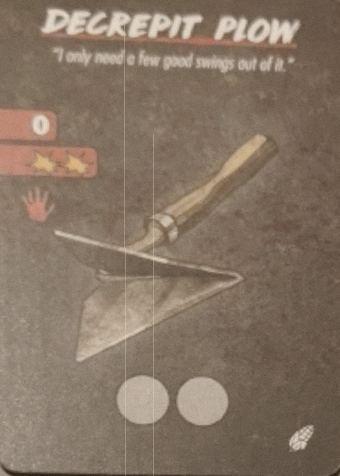
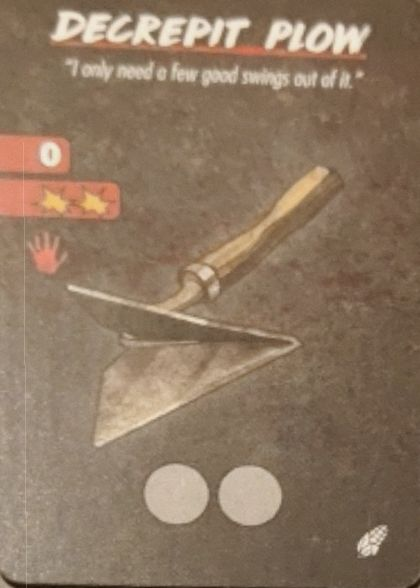
Guide: photo-style frame on cards, less washed-out filter, tap to zoom

diff --git a/en/guia-a-rotten-harvest.html b/en/guia-a-rotten-harvest.html
@@ -153,11 +153,11 @@
 <p class="gu-ley">🩸 = Bloodlust · 🌾 = Field Space · 🎭 = the card's mask icon</p></header>
 <style>
 .gu-grid{display:grid;grid-template-columns:repeat(auto-fill,minmax(150px,1fr));gap:14px;margin:12px 0 6px}
-.gu-grid figure{margin:0}.gu-grid img{width:100%;display:block;border:1px solid #3a2a2c;box-shadow:0 6px 16px rgba(0,0,0,.5)}
+.gu-grid figure{margin:0}.gu-grid img,.gu-it img{display:block;background:#ece5d5;padding:5px;border-radius:7px;box-sizing:border-box;cursor:zoom-in;box-shadow:0 10px 22px rgba(0,0,0,.6),0 0 0 1px rgba(0,0,0,.4);transform:rotate(-1.6deg);transition:transform .2s}.gu-grid img{width:100%}.gu-grid figure:nth-child(even) img,.gu-it:nth-child(even) img{transform:rotate(1.8deg)}.gu-grid img:hover,.gu-it img:hover{transform:rotate(0) scale(1.04)}.gu-zoom{position:fixed;inset:0;z-index:99;background:rgba(0,0,0,.85);display:flex;align-items:center;justify-content:center;cursor:zoom-out}.gu-zoom img{max-width:92vw;max-height:88vh;background:#ece5d5;padding:8px;border-radius:10px;box-shadow:0 20px 50px #000}
 .gu-grid figcaption{font-family:var(--f-mono);font-size:11px;letter-spacing:.06em;text-transform:uppercase;margin-top:6px;color:var(--muted)}
 .gu-obj{display:grid;grid-template-columns:repeat(auto-fill,minmax(300px,1fr));gap:12px;margin:12px 0}
 .gu-it{display:flex;gap:12px;align-items:flex-start;background:var(--surface);border:1px solid var(--line);border-radius:3px;padding:10px}
-.gu-it img{width:92px;flex:none;border:1px solid #3a2a2c}.gu-it b.n{display:block;font-size:15px;margin-bottom:4px}
+.gu-it img{width:104px;flex:none;margin:2px 4px 4px 2px}.gu-it b.n{display:block;font-size:15px;margin-bottom:4px}
 .gu-it p{margin:0;font-size:14px}.gu-ev{margin:10px 0}.gu-ev dt{font-weight:700;margin-top:10px}.gu-ev dd{margin:2px 0 0}
 .gu-err{border-left:3px solid var(--blood);padding:4px 0 4px 14px;margin:10px 0}
 .gu-ley{font-family:var(--f-mono);font-size:12px;color:var(--muted)}
@@ -173,7 +173,8 @@
 <h2>The 5 setups</h2><p class="sub">K = Killer start · yellow figure = Final Girl · numbers = Victims in each space.</p><div class="gu-grid"><figure><img src="../img/guias/a-rotten-harvest/reap-what-you-sow.jpg" alt="Reap What You Sow" loading="lazy"><figcaption>Reap What You Sow</figcaption></figure><figure><img src="../img/guias/a-rotten-harvest/final-crop.jpg" alt="Final Crop" loading="lazy"><figcaption>Final Crop</figcaption></figure><figure><img src="../img/guias/a-rotten-harvest/dusk-sacrifice.jpg" alt="Dusk Sacrifice" loading="lazy"><figcaption>Dusk Sacrifice</figcaption></figure><figure><img src="../img/guias/a-rotten-harvest/harvest-season.jpg" alt="Harvest Season" loading="lazy"><figcaption>Harvest Season</figcaption></figure><figure><img src="../img/guias/a-rotten-harvest/demands-of-the-earth.jpg" alt="Demands of the Earth" loading="lazy"><figcaption>Demands of the Earth</figcaption></figure></div>
 <h2>Items</h2><div class="gu-obj"><div class="gu-it"><img src="../img/guias/a-rotten-harvest/moonshine-jug.jpg" alt="Moonshine Jug" loading="lazy"><div><b class="n">Moonshine Jug</b><p>Discard to recover <b>4 Health</b>.</p></div></div><div class="gu-it"><img src="../img/guias/a-rotten-harvest/cowboy-boots.jpg" alt="Cowboy Boots" loading="lazy"><div><b class="n">Cowboy Boots</b><p>2 uses. Move up to <b>2 spaces</b>.</p></div></div><div class="gu-it"><img src="../img/guias/a-rotten-harvest/pilgrims-hat.jpg" alt="Pilgrim's Hat" loading="lazy"><div><b class="n">Pilgrim's Hat</b><p>If you start your movement in a 🌾, you may move <b>1 extra space</b>.</p></div></div><div class="gu-it"><img src="../img/guias/a-rotten-harvest/farmers-almanac.jpg" alt="Farmer's Almanac" loading="lazy"><div><b class="n">Farmer's Almanac</b><p>2 uses. After drawing a <b>Terror</b> card but before resolving it, you may put it on the bottom and draw the next one.</p></div></div><div class="gu-it"><img src="../img/guias/a-rotten-harvest/mechanics-toolbox.jpg" alt="Mechanic's Toolbox" loading="lazy"><div><b class="n">Mechanic's Toolbox</b><p>Discard to take back <b>1 discarded Item</b>, with all its uses.</p></div></div><div class="gu-it"><img src="../img/guias/a-rotten-harvest/childrens-toys.jpg" alt="Children's Toys" loading="lazy"><div><b class="n">Children's Toys</b><p>2 uses. Swap a <b>Child</b> in your space for a normal Victim.</p></div></div><div class="gu-it"><img src="../img/guias/a-rotten-harvest/locus-of-insanity.jpg" alt="Locus of Insanity" loading="lazy"><div><b class="n">Locus of Insanity</b><p>3 uses. Once per turn, with 🎭, you may place yourself in <b>any 🌾</b>.</p></div></div><div class="gu-it"><img src="../img/guias/a-rotten-harvest/scythe.jpg" alt="Scythe" loading="lazy"><div><b class="n">Scythe</b><p>Weapon · range 0-1 · 1 damage · 2 hands. When attacking Enemies in a 🌾, you may <b>split the damage</b> between them. Then that space becomes <b>Harvested</b> and is no longer a 🌾.</p></div></div><div class="gu-it"><img src="../img/guias/a-rotten-harvest/pilgrims-musket.jpg" alt="Pilgrim's Musket" loading="lazy"><div><b class="n">Pilgrim's Musket</b><p>Weapon · range 1 · 2 damage · 2 hands · 2 uses. <b>Can't</b> be used against Enemies in a 🌾.</p></div></div><div class="gu-it"><img src="../img/guias/a-rotten-harvest/rusty-pitchfork.jpg" alt="Rusty Pitchfork" loading="lazy"><div><b class="n">Rusty Pitchfork</b><p>Weapon · range 0 · 2 damage · 2 hands. If your final Horror Roll has <b>no successes</b>, discard it.</p></div></div><div class="gu-it"><img src="../img/guias/a-rotten-harvest/decrepit-plow.jpg" alt="Decrepit Plow" loading="lazy"><div><b class="n">Decrepit Plow</b><p>Weapon · range 0 · 2 damage · 1 hand · 2 uses.</p></div></div><div class="gu-it"><img src="../img/guias/a-rotten-harvest/sickle.jpg" alt="Sickle" loading="lazy"><div><b class="n">Sickle</b><p>Weapon · range 0 · 1 damage · 1 hand. No use limit.</p></div></div></div><p class="sub">Still to photograph: Bag of Feed, Combine Keys, Corn Cob Pipe and Cornhusk Effigy.</p>
 <h2>Shady Acres events</h2><dl class="gu-ev"><dt>Umbral Evocation</dt><dd>Put the <b>Harvest Shadow</b> token in the Killer's space. Each time you or a Victim enters it: 🩸.</dd><dt>Acres of Hatred</dt><dd>For each 🌾 with at least one Victim: 🩸 (max 2). Discard.</dd><dt>“The Fields Are Moving…”</dt><dd>Put a Field token on <b>Hayfield</b> and <b>Cow Pasture</b>: they become 🌾.</dd><dt>Festering Rot</dt><dd>Whenever a Victim is killed in a 🌾: 🎭.</dd><dt>It Hungers For Us</dt><dd>All Victims panic. For each Victim in the Killer's space or adjacent: 🎭 (max 3). Discard.</dd><dt>Harvest Cultist</dt><dd>The closest Victim to you becomes the Cultist. Each Upkeep it moves 1 space toward you; if it's with you, you both move 1 space toward the Killer. Saving it has a reward.</dd><dt>Ralph the Mechanic</dt><dd>Ralph starts in <b>Ralph's Garage</b>. While he's with you, limited-use Items you take get an extra use.</dd><dt>Sally McCoy</dt><dd>Sally starts in the <b>McCoy Farmhouse</b>. When saved, search the Item deck for the <b>Combine Keys</b>.</dd></dl>
-<p class="sub">Our own wording, based on the rulebook and the cards. Spot a mistake? Let us know.</p><footer><p>Data from the <a href="https://docs.google.com/spreadsheets/d/1xSl_BhqfVdHnYIYtuiWIIzr1BjD4ToLAYvDCWebNKGY/edit" target="_blank" rel="noopener">public tracking sheet</a> kept by the Final Girl community (<a href="https://docs.google.com/forms/d/e/1FAIpQLSf8Y8_bLqYdGlhHaf1VIod8FQfCH3r9qch6LXo0oyBeCJENiw/viewform" target="_blank" rel="noopener">log your games</a>). Back to <a href="fichas.html">all killers and boxes</a>.</p></footer></div>
+<p class="sub">Our own wording, based on the rulebook and the cards. Spot a mistake? Let us know.</p>
+<script>document.addEventListener("click",function(e){var z=document.querySelector(".gu-zoom");if(z){z.remove();return}var i=e.target.closest(".gu-grid img,.gu-it img");if(!i)return;var d=document.createElement("div");d.className="gu-zoom";d.innerHTML='<img src="'+i.src+'" alt="">';document.body.appendChild(d)})</script><footer><p>Data from the <a href="https://docs.google.com/spreadsheets/d/1xSl_BhqfVdHnYIYtuiWIIzr1BjD4ToLAYvDCWebNKGY/edit" target="_blank" rel="noopener">public tracking sheet</a> kept by the Final Girl community (<a href="https://docs.google.com/forms/d/e/1FAIpQLSf8Y8_bLqYdGlhHaf1VIod8FQfCH3r9qch6LXo0oyBeCJENiw/viewform" target="_blank" rel="noopener">log your games</a>). Back to <a href="fichas.html">all killers and boxes</a>.</p></footer></div>
 <style>.fg-tuya{font-family:var(--f-mono);font-size:10px;letter-spacing:.08em;text-transform:uppercase;
 background:var(--blood);color:#fff;padding:2px 6px;border-radius:2px;margin-left:8px;vertical-align:3px;white-space:nowrap}
 h1 .fg-tuya{font-size:12px;vertical-align:middle}a.fg-mia{color:var(--blood)}</style>

diff --git a/guia-a-rotten-harvest.html b/guia-a-rotten-harvest.html
@@ -153,11 +153,11 @@
 <p class="gu-ley">🩸 = Bloodlust · 🌾 = Field Space · 🎭 = el icono de la máscara de la carta</p></header>
 <style>
 .gu-grid{display:grid;grid-template-columns:repeat(auto-fill,minmax(150px,1fr));gap:14px;margin:12px 0 6px}
-.gu-grid figure{margin:0}.gu-grid img{width:100%;display:block;border:1px solid #3a2a2c;box-shadow:0 6px 16px rgba(0,0,0,.5)}
+.gu-grid figure{margin:0}.gu-grid img,.gu-it img{display:block;background:#ece5d5;padding:5px;border-radius:7px;box-sizing:border-box;cursor:zoom-in;box-shadow:0 10px 22px rgba(0,0,0,.6),0 0 0 1px rgba(0,0,0,.4);transform:rotate(-1.6deg);transition:transform .2s}.gu-grid img{width:100%}.gu-grid figure:nth-child(even) img,.gu-it:nth-child(even) img{transform:rotate(1.8deg)}.gu-grid img:hover,.gu-it img:hover{transform:rotate(0) scale(1.04)}.gu-zoom{position:fixed;inset:0;z-index:99;background:rgba(0,0,0,.85);display:flex;align-items:center;justify-content:center;cursor:zoom-out}.gu-zoom img{max-width:92vw;max-height:88vh;background:#ece5d5;padding:8px;border-radius:10px;box-shadow:0 20px 50px #000}
 .gu-grid figcaption{font-family:var(--f-mono);font-size:11px;letter-spacing:.06em;text-transform:uppercase;margin-top:6px;color:var(--muted)}
 .gu-obj{display:grid;grid-template-columns:repeat(auto-fill,minmax(300px,1fr));gap:12px;margin:12px 0}
 .gu-it{display:flex;gap:12px;align-items:flex-start;background:var(--surface);border:1px solid var(--line);border-radius:3px;padding:10px}
-.gu-it img{width:92px;flex:none;border:1px solid #3a2a2c}.gu-it b.n{display:block;font-size:15px;margin-bottom:4px}
+.gu-it img{width:104px;flex:none;margin:2px 4px 4px 2px}.gu-it b.n{display:block;font-size:15px;margin-bottom:4px}
 .gu-it p{margin:0;font-size:14px}.gu-ev{margin:10px 0}.gu-ev dt{font-weight:700;margin-top:10px}.gu-ev dd{margin:2px 0 0}
 .gu-err{border-left:3px solid var(--blood);padding:4px 0 4px 14px;margin:10px 0}
 .gu-ley{font-family:var(--f-mono);font-size:12px;color:var(--muted)}
@@ -173,7 +173,8 @@
 <h2>Los 5 inicios</h2><p class="sub">K = dónde empieza el killer · figura amarilla = la Final Girl · números = víctimas en cada espacio.</p><div class="gu-grid"><figure><img src="img/guias/a-rotten-harvest/reap-what-you-sow.jpg" alt="Reap What You Sow" loading="lazy"><figcaption>Reap What You Sow</figcaption></figure><figure><img src="img/guias/a-rotten-harvest/final-crop.jpg" alt="Final Crop" loading="lazy"><figcaption>Final Crop</figcaption></figure><figure><img src="img/guias/a-rotten-harvest/dusk-sacrifice.jpg" alt="Dusk Sacrifice" loading="lazy"><figcaption>Dusk Sacrifice</figcaption></figure><figure><img src="img/guias/a-rotten-harvest/harvest-season.jpg" alt="Harvest Season" loading="lazy"><figcaption>Harvest Season</figcaption></figure><figure><img src="img/guias/a-rotten-harvest/demands-of-the-earth.jpg" alt="Demands of the Earth" loading="lazy"><figcaption>Demands of the Earth</figcaption></figure></div>
 <h2>Objetos</h2><div class="gu-obj"><div class="gu-it"><img src="img/guias/a-rotten-harvest/moonshine-jug.jpg" alt="Moonshine Jug" loading="lazy"><div><b class="n">Moonshine Jug</b><p>Descártalo para recuperar <b>4 de vida</b>.</p></div></div><div class="gu-it"><img src="img/guias/a-rotten-harvest/cowboy-boots.jpg" alt="Cowboy Boots" loading="lazy"><div><b class="n">Cowboy Boots</b><p>2 usos. Muévete hasta <b>2 espacios</b>.</p></div></div><div class="gu-it"><img src="img/guias/a-rotten-harvest/pilgrims-hat.jpg" alt="Pilgrim's Hat" loading="lazy"><div><b class="n">Pilgrim's Hat</b><p>Si empiezas el movimiento en un 🌾, puedes moverte <b>1 espacio más</b>.</p></div></div><div class="gu-it"><img src="img/guias/a-rotten-harvest/farmers-almanac.jpg" alt="Farmer's Almanac" loading="lazy"><div><b class="n">Farmer's Almanac</b><p>2 usos. Tras robar una carta de <b>Terror</b> y antes de resolverla, puedes ponerla al fondo y robar la siguiente.</p></div></div><div class="gu-it"><img src="img/guias/a-rotten-harvest/mechanics-toolbox.jpg" alt="Mechanic's Toolbox" loading="lazy"><div><b class="n">Mechanic's Toolbox</b><p>Descártala para recuperar <b>1 objeto descartado</b>, con todos sus usos.</p></div></div><div class="gu-it"><img src="img/guias/a-rotten-harvest/childrens-toys.jpg" alt="Children's Toys" loading="lazy"><div><b class="n">Children's Toys</b><p>2 usos. Cambia un <b>Child</b> de tu espacio por una víctima normal.</p></div></div><div class="gu-it"><img src="img/guias/a-rotten-harvest/locus-of-insanity.jpg" alt="Locus of Insanity" loading="lazy"><div><b class="n">Locus of Insanity</b><p>3 usos. Una vez por turno, con 🎭, puedes ponerte en <b>cualquier 🌾</b>.</p></div></div><div class="gu-it"><img src="img/guias/a-rotten-harvest/scythe.jpg" alt="Scythe" loading="lazy"><div><b class="n">Scythe</b><p>Arma · alcance 0-1 · 1 daño · 2 manos. Al atacar Enemies en un 🌾, puedes <b>repartir el daño</b> entre ellos. Luego ese espacio queda <b>Harvested</b> y deja de ser 🌾.</p></div></div><div class="gu-it"><img src="img/guias/a-rotten-harvest/pilgrims-musket.jpg" alt="Pilgrim's Musket" loading="lazy"><div><b class="n">Pilgrim's Musket</b><p>Arma · alcance 1 · 2 daños · 2 manos · 2 usos. <b>No sirve</b> contra Enemies en un 🌾.</p></div></div><div class="gu-it"><img src="img/guias/a-rotten-harvest/rusty-pitchfork.jpg" alt="Rusty Pitchfork" loading="lazy"><div><b class="n">Rusty Pitchfork</b><p>Arma · alcance 0 · 2 daños · 2 manos. Si tu tirada final de Horror no saca <b>ningún éxito</b>, se descarta.</p></div></div><div class="gu-it"><img src="img/guias/a-rotten-harvest/decrepit-plow.jpg" alt="Decrepit Plow" loading="lazy"><div><b class="n">Decrepit Plow</b><p>Arma · alcance 0 · 2 daños · 1 mano · 2 usos.</p></div></div><div class="gu-it"><img src="img/guias/a-rotten-harvest/sickle.jpg" alt="Sickle" loading="lazy"><div><b class="n">Sickle</b><p>Arma · alcance 0 · 1 daño · 1 mano. Sin límite de usos.</p></div></div></div><p class="sub">Faltan por fotografiar: Bag of Feed, Combine Keys, Corn Cob Pipe y Cornhusk Effigy.</p>
 <h2>Eventos de Shady Acres</h2><dl class="gu-ev"><dt>Umbral Evocation</dt><dd>Pon el token <b>Harvest Shadow</b> en el espacio del Killer. Cada vez que tú o una víctima entráis ahí: 🩸.</dd><dt>Acres of Hatred</dt><dd>Por cada 🌾 con al menos una víctima: 🩸 (máx. 2). Se descarta.</dd><dt>“The Fields Are Moving…”</dt><dd>Pon un token de Field en <b>Hayfield</b> y <b>Cow Pasture</b>: pasan a ser 🌾.</dd><dt>Festering Rot</dt><dd>Cada vez que muere una víctima en un 🌾: 🎭.</dd><dt>It Hungers For Us</dt><dd>Todas las víctimas entran en pánico. Por cada víctima en el espacio del Killer o adyacente: 🎭 (máx. 3). Se descarta.</dd><dt>Harvest Cultist</dt><dd>La víctima más cercana a ti pasa a ser el Cultist. En cada Upkeep se acerca 1 espacio a ti; si está contigo, os movéis los dos 1 espacio hacia el Killer. Salvarla tiene premio.</dd><dt>Ralph the Mechanic</dt><dd>Ralph empieza en <b>Ralph's Garage</b>. Mientras esté contigo, los objetos con usos limitados que cojas ganan un uso extra.</dd><dt>Sally McCoy</dt><dd>Sally empieza en la <b>McCoy Farmhouse</b>. Al salvarla, busca las <b>Combine Keys</b> en el mazo de objetos.</dd></dl>
-<p class="sub">Texto nuestro a partir del reglamento y las cartas. Si ves un error, dínoslo.</p><footer><p>Vuelve a <a href="fichas.html">todas las fichas</a> o a <a href="index.html">las estadísticas</a>.</p></footer></div>
+<p class="sub">Texto nuestro a partir del reglamento y las cartas. Si ves un error, dínoslo.</p>
+<script>document.addEventListener("click",function(e){var z=document.querySelector(".gu-zoom");if(z){z.remove();return}var i=e.target.closest(".gu-grid img,.gu-it img");if(!i)return;var d=document.createElement("div");d.className="gu-zoom";d.innerHTML='<img src="'+i.src+'" alt="">';document.body.appendChild(d)})</script><footer><p>Vuelve a <a href="fichas.html">todas las fichas</a> o a <a href="index.html">las estadísticas</a>.</p></footer></div>
 <style>.fg-tuya{font-family:var(--f-mono);font-size:10px;letter-spacing:.08em;text-transform:uppercase;
 background:var(--blood);color:#fff;padding:2px 6px;border-radius:2px;margin-left:8px;vertical-align:3px;white-space:nowrap}
 h1 .fg-tuya{font-size:12px;vertical-align:middle}a.fg-mia{color:var(--blood)}</style>

diff --git a/guia.py b/guia.py
@@ -190,11 +190,11 @@ def pagina(lang):
     import paginas
     css = """<style>
 .gu-grid{display:grid;grid-template-columns:repeat(auto-fill,minmax(150px,1fr));gap:14px;margin:12px 0 6px}
-.gu-grid figure{margin:0}.gu-grid img{width:100%;display:block;border:1px solid #3a2a2c;box-shadow:0 6px 16px rgba(0,0,0,.5)}
+.gu-grid figure{margin:0}.gu-grid img,.gu-it img{display:block;background:#ece5d5;padding:5px;border-radius:7px;box-sizing:border-box;cursor:zoom-in;box-shadow:0 10px 22px rgba(0,0,0,.6),0 0 0 1px rgba(0,0,0,.4);transform:rotate(-1.6deg);transition:transform .2s}.gu-grid img{width:100%}.gu-grid figure:nth-child(even) img,.gu-it:nth-child(even) img{transform:rotate(1.8deg)}.gu-grid img:hover,.gu-it img:hover{transform:rotate(0) scale(1.04)}.gu-zoom{position:fixed;inset:0;z-index:99;background:rgba(0,0,0,.85);display:flex;align-items:center;justify-content:center;cursor:zoom-out}.gu-zoom img{max-width:92vw;max-height:88vh;background:#ece5d5;padding:8px;border-radius:10px;box-shadow:0 20px 50px #000}
 .gu-grid figcaption{font-family:var(--f-mono);font-size:11px;letter-spacing:.06em;text-transform:uppercase;margin-top:6px;color:var(--muted)}
 .gu-obj{display:grid;grid-template-columns:repeat(auto-fill,minmax(300px,1fr));gap:12px;margin:12px 0}
 .gu-it{display:flex;gap:12px;align-items:flex-start;background:var(--surface);border:1px solid var(--line);border-radius:3px;padding:10px}
-.gu-it img{width:92px;flex:none;border:1px solid #3a2a2c}.gu-it b.n{display:block;font-size:15px;margin-bottom:4px}
+.gu-it img{width:104px;flex:none;margin:2px 4px 4px 2px}.gu-it b.n{display:block;font-size:15px;margin-bottom:4px}
 .gu-it p{margin:0;font-size:14px}.gu-ev{margin:10px 0}.gu-ev dt{font-weight:700;margin-top:10px}.gu-ev dd{margin:2px 0 0}
 .gu-err{border-left:3px solid var(--blood);padding:4px 0 4px 14px;margin:10px 0}
 .gu-ley{font-family:var(--f-mono);font-size:12px;color:var(--muted)}
@@ -219,5 +219,9 @@ def pagina(lang):
          "".join(f'<div class="gu-it"><img src="{pre}{DIR}{s}.jpg" alt="{n}" loading="lazy"><div><b class="n">{n}</b><p>{d}</p></div></div>'
                  for s, n, d in t["obj"]) + f'</div><p class="sub">{t["obj_falta"]}</p>',
          f'<h2>{t["s_ev"]}</h2><dl class="gu-ev">' + "".join(f'<dt>{n}</dt><dd>{d}</dd>' for n, d in t["ev"]) + '</dl>',
-         f'<p class="sub">{t["nota"]}</p>']
+         f'<p class="sub">{t["nota"]}</p>',
+         # Tocar una carta la abre en grande.
+         '<script>document.addEventListener("click",function(e){var z=document.querySelector(".gu-zoom");if(z){z.remove();return}'
+         'var i=e.target.closest(".gu-grid img,.gu-it img");if(!i)return;var d=document.createElement("div");d.className="gu-zoom";'
+         'd.innerHTML=\'<img src="\'+i.src+\'" alt="">\';document.body.appendChild(d)})</script>']
     return t["title"], t["desc"], "\n".join(h)
